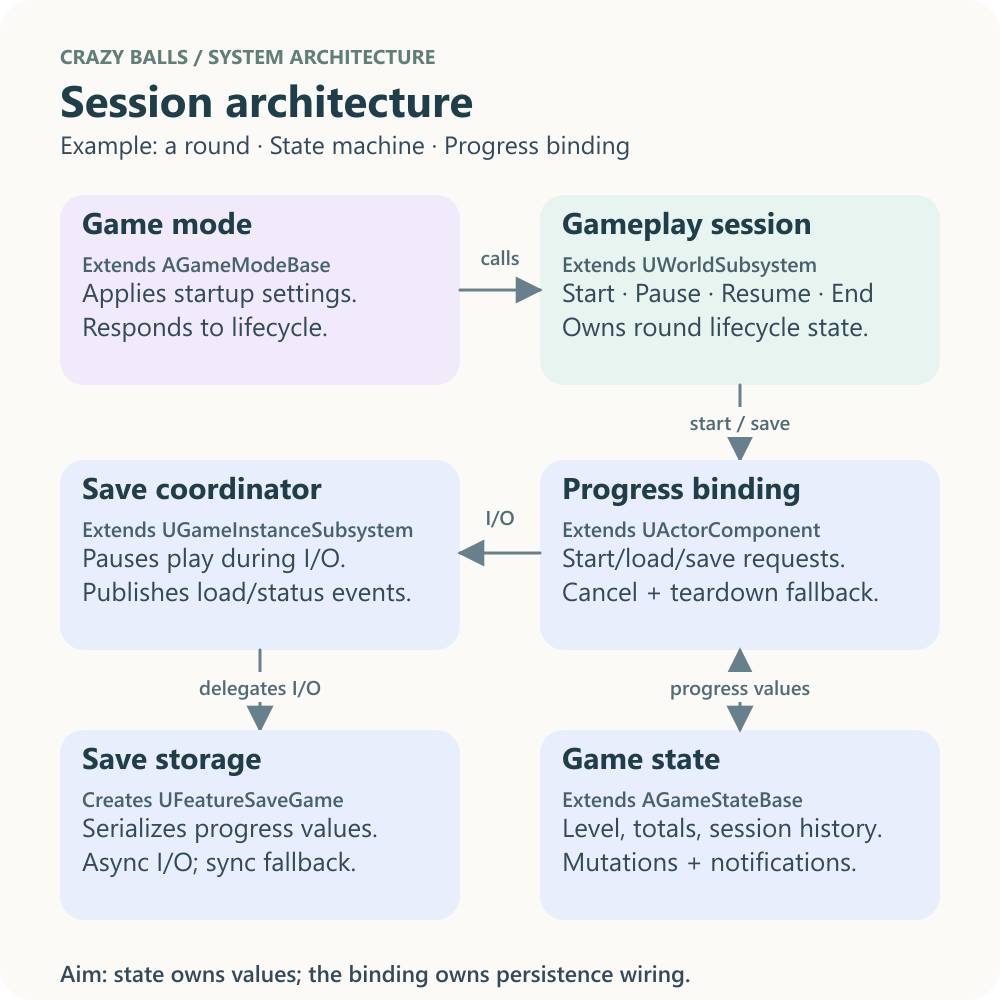
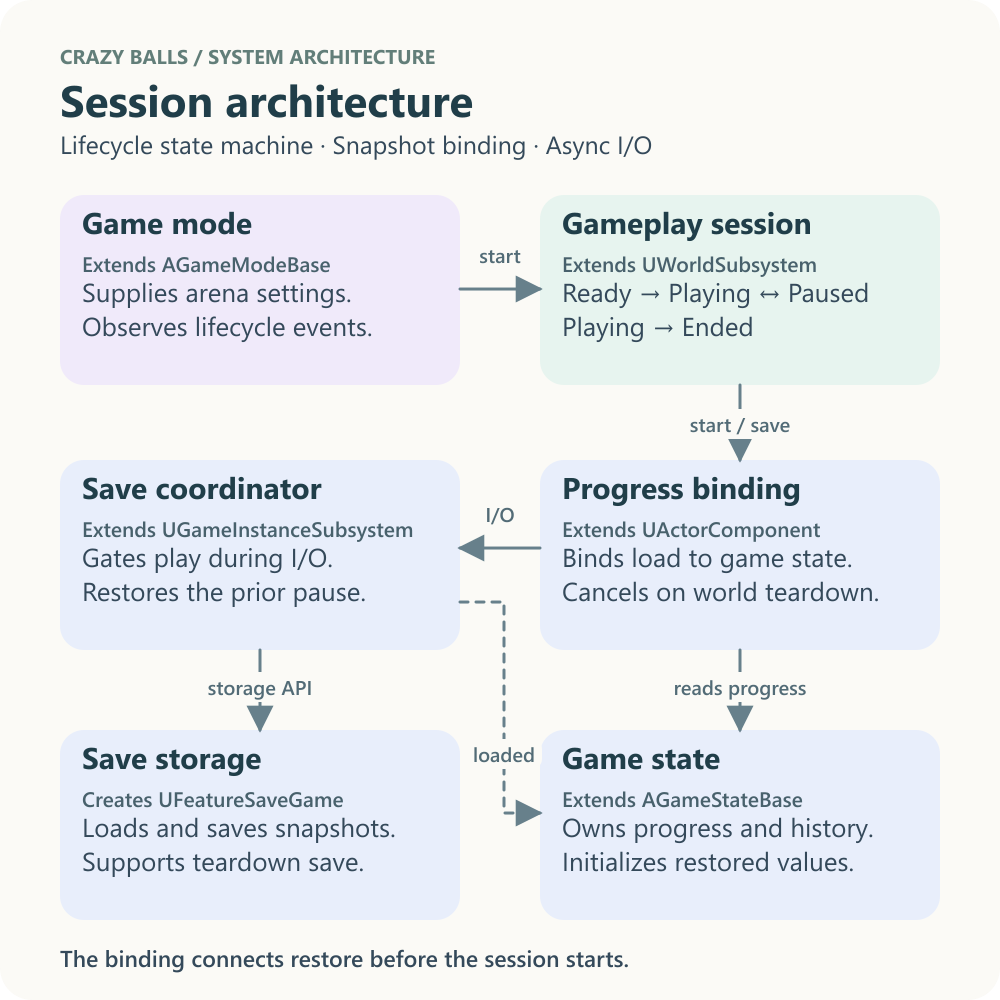
Refresh architecture diagrams and strengthen feature smoke checks

diff --git a/Source/TestFeatures/FeatureSmokeTests.cpp b/Source/TestFeatures/FeatureSmokeTests.cpp
@@ -3,6 +3,7 @@
 #include "Features/Gameplay/FeatureGameState.h"
 #include "Features/Gameplay/Actors/FeatureBall.h"
 #include "Features/Gameplay/FeatureBallManager.h"
+#include "Features/Gameplay/FeatureGameStateController.h"
 #include "Features/GameWorkflow/FeatureGameplaySession.h"
 #include "Features/GameWorkflow/FeatureSaveGame.h"
 #include "Features/UI/Views/FeatureMenuViews.h"
@@ -15,6 +16,7 @@
 #include "GameFramework/PlayerState.h"
 #include "Kismet/GameplayStatics.h"
 #include "Misc/AutomationTest.h"
+#include "Misc/DateTime.h"
 #include "TimerManager.h"
 
 // Initializes a fresh state fixture without involving persistence or a game instance.
@@ -52,7 +54,12 @@ bool FFeatureMenuSmokeTest::RunTest(const FString& Parameters)
 		&& Initial.Items[3].Action == EFeatureMenuAction::Exit);
 	TestTrue(TEXT("Escape exits from the initial menu"), Initial.bExitOnEscape && !Initial.bPauseMenu);
 	TestTrue(TEXT("Pause menu starts with Resume"), Pause.Items[0].Action == EFeatureMenuAction::Resume && Pause.bPauseMenu);
-	TestTrue(TEXT("Victory starts the saved next level"), Victory.Items[0].Action == EFeatureMenuAction::Retry);
+	TestTrue(TEXT("Pause offers return to menu and exit"), Pause.Items[1].Action == EFeatureMenuAction::ReturnToMenu
+		&& Pause.Items[2].Action == EFeatureMenuAction::Exit);
+	TestTrue(TEXT("Victory offers saved-level reload and exit"), Victory.Items[0].Action == EFeatureMenuAction::Retry
+		&& Victory.Items[1].Action == EFeatureMenuAction::Exit);
+	TestFalse(TEXT("Result screens do not use pause or startup Escape behavior"),
+		Victory.bPauseMenu || Victory.bExitOnEscape || Defeat.bPauseMenu || Defeat.bExitOnEscape);
 	TestTrue(TEXT("Defeat offers Retry and Exit"), Defeat.Items[0].Action == EFeatureMenuAction::Retry
 		&& Defeat.Items[1].Action == EFeatureMenuAction::Exit);
 	return true;
@@ -153,6 +160,11 @@ bool FFeaturePlayerBallReplacementSmokeTest::RunTest(const FString& Parameters)
 {
 	UWorld* World = UWorld::CreateWorld(EWorldType::Game, false);
 	UFeatureBallManager* Manager = World->GetSubsystem<UFeatureBallManager>();
+	AFeatureGameState* State = World->SpawnActor<AFeatureGameState>();
+	InitializeFreshSession(*State, 1);
+	UFeatureGameStateController* StateController = NewObject<UFeatureGameStateController>(State);
+	StateController->Initialize(*State);
+	Manager->OnBallCreated.AddUObject(StateController, &UFeatureGameStateController::ObserveBall);
 	Manager->Start(1, 1.0f, 1.0f, 5, FBox(FVector(-100.0f), FVector(100.0f)));
 	AFeatureBall* Ball = Manager->GetSpawnedBalls()[0].Get();
 	APawn* PlayerPawn = World->SpawnActor<APawn>();
@@ -168,6 +180,8 @@ bool FFeaturePlayerBallReplacementSmokeTest::RunTest(const FString& Parameters)
 
 	Ball->OnBallHit(nullptr, PlayerPawn, nullptr, FVector::ZeroVector, FHitResult());
 	TestTrue(TEXT("Player contact is published"), bPlayerContactAnnounced);
+	TestEqual(TEXT("The state bridge records the contact once"), State->GetGameplaySessions().Last().PlayerBallCollisions, 1);
+	TestEqual(TEXT("Player contact leaves the aggregate bounce count unchanged"), State->GetTotalBounces(), 0);
 	TestFalse(TEXT("The contacted ball is retired"), Ball->IsActive());
 	TestEqual(TEXT("Retirement schedules one replacement"), Manager->PendingBallReplacements, 1);
 	TestEqual(TEXT("A swept player contact does not count as a non-player bounce"), Ball->BounceCount, 0);
@@ -185,6 +199,7 @@ bool FFeaturePlayerBallReplacementSmokeTest::RunTest(const FString& Parameters)
 	TestTrue(TEXT("The ball remains active below its rebound limit"), Ball->IsActive());
 	Ball->OnBallHit(nullptr, nullptr, nullptr, FVector::UpVector, FHitResult());
 	TestEqual(TEXT("The rebound limit counts the last bounce"), Ball->BounceCount, 2);
+	TestEqual(TEXT("Pool reuse preserves a single scoring subscription"), State->GetTotalBounces(), 2);
 	TestFalse(TEXT("The scripted rebound limit retires the ball"), Ball->IsActive());
 	TestEqual(TEXT("Non-player retirement also schedules replacement"), Manager->PendingBallReplacements, 1);
 
@@ -194,9 +209,12 @@ bool FFeaturePlayerBallReplacementSmokeTest::RunTest(const FString& Parameters)
 	TestEqual(TEXT("Deferred replacement remains queued"), Manager->PendingBallReplacements, 1);
 	Manager->Resume();
 	TestTrue(TEXT("Active gameplay permits replacement again"), Ball->IsActive());
-	Manager->Stop();
 	Ball->Deactivate();
-	TestEqual(TEXT("Retirement after the session ends schedules no replacement"), Manager->PendingBallReplacements, 0);
+	TestEqual(TEXT("A retirement before stop queues a replacement"), Manager->PendingBallReplacements, 1);
+	Manager->Stop();
+	TestEqual(TEXT("Stopping discards the queued replacement"), Manager->PendingBallReplacements, 0);
+	Manager->SpawnReplacementBall();
+	TestFalse(TEXT("A stopped manager leaves the retired ball inactive"), Ball->IsActive());
 
 	World->DestroyWorld(false);
 	return true;
@@ -234,7 +252,12 @@ bool FFeatureSaveSmokeTest::RunTest(const FString& Parameters)
 	UFeatureSaveGame* Original = NewObject<UFeatureSaveGame>();
 	Original->Progress.CurrentLevel = 3;
 	Original->Progress.TotalBounces = 14;
+	FFeatureGameplaySessionRecord& Earlier = Original->Progress.Sessions.AddDefaulted_GetRef();
+	Earlier.StartedAtUtc = FDateTime(2026, 11, 8, 12);
+	Earlier.TotalBounces = 10;
+	Earlier.Result = EFeatureGameplaySessionResult::Victory;
 	FFeatureGameplaySessionRecord& Session = Original->Progress.Sessions.AddDefaulted_GetRef();
+	Session.StartedAtUtc = FDateTime(2026, 11, 8, 13);
 	Session.TotalBounces = 4;
 	Session.PlayerBallCollisions = 2;
 	Session.Result = EFeatureGameplaySessionResult::Defeat;
@@ -251,9 +274,13 @@ bool FFeatureSaveSmokeTest::RunTest(const FString& Parameters)
 	}
 	TestEqual(TEXT("Saved level survives"), Restored->Progress.CurrentLevel, 3);
 	TestEqual(TEXT("Aggregate bounces survive"), Restored->Progress.TotalBounces, 14);
-	if (TestEqual(TEXT("Session history survives"), Restored->Progress.Sessions.Num(), 1))
+	if (TestEqual(TEXT("Session history survives"), Restored->Progress.Sessions.Num(), 2))
 	{
-		const FFeatureGameplaySessionRecord& LoadedSession = Restored->Progress.Sessions[0];
+		const FFeatureGameplaySessionRecord& LoadedEarlier = Restored->Progress.Sessions[0];
+		const FFeatureGameplaySessionRecord& LoadedSession = Restored->Progress.Sessions[1];
+		TestEqual(TEXT("Session timestamps survive in chronological order"), LoadedEarlier.StartedAtUtc, FDateTime(2026, 11, 8, 12));
+		TestEqual(TEXT("Latest session timestamp survives"), LoadedSession.StartedAtUtc, FDateTime(2026, 11, 8, 13));
+		TestTrue(TEXT("Earlier session result survives"), LoadedEarlier.Result == EFeatureGameplaySessionResult::Victory);
 		TestEqual(TEXT("Session bounces survive"), LoadedSession.TotalBounces, 4);
 		TestEqual(TEXT("Player contacts survive"), LoadedSession.PlayerBallCollisions, 2);
 		TestTrue(TEXT("Session result survives"), LoadedSession.Result == EFeatureGameplaySessionResult::Defeat);

diff --git a/Source/test_UE_584_G1_c/FeatureGameplaySmokeTests.cpp b/Source/test_UE_584_G1_c/FeatureGameplaySmokeTests.cpp
@@ -33,6 +33,8 @@ bool FFeaturePlayerSpeedBoostSmokeTest::RunTest(const FString& Parameters)
 	Atest_UE_584_G1_cCharacter* StackingCharacter = World->SpawnActor<Atest_UE_584_G1_cCharacter>(CharacterClass);
 	UFeaturePlayerRules* StackingLogic = StackingCharacter->FindComponentByClass<UFeaturePlayerRules>();
 	StackingLogic->ConfigureSpeed(0.5f, 2.0f, 5.0f, true);
+	StackingLogic->HandleBallContact(*Character);
+	TestEqual(TEXT("Contact for another pawn leaves baseline speed unchanged"), StackingCharacter->GetCharacterMovement()->MaxWalkSpeed, 250.0f);
 	StackingLogic->HandleBallContact(*StackingCharacter);
 	StackingLogic->HandleBallContact(*StackingCharacter);
 	TestEqual(TEXT("Stacking adds one contact boost per contact"), StackingCharacter->GetCharacterMovement()->MaxWalkSpeed, 750.0f);

diff --git a/README.md b/README.md
@@ -75,13 +75,13 @@ Earlier milestones and their runtime captures are recorded in the [change histor
 
 The flows below are small, purpose-built examples for this prototype. Each uses a concrete game feature to explore architectural benefits: clear ownership, localized dependencies, shared construction, and a single source of truth for rules and state. The patterns guide those boundaries; each implementation stays focused on its current use case and can grow when another use case needs it.
 
-Each view highlights its own boundary: gameplay events, UI construction, session lifecycle, script iteration, or helper ownership. Repeated class names provide context; their detailed responsibilities stay in the relevant view. Solid arrows show calls or data flow; the dashed arrow shows state observation. Expand the class references for full names and base types. These are architecture illustrations, not runtime captures.
+Each view highlights its own boundary: gameplay events, UI construction, session lifecycle, script iteration, or helper ownership. Repeated class names provide context; their detailed responsibilities stay in the relevant view. Solid arrows show calls or value flow. Dashed arrows show event delivery. Expand the class references for full names and base types. These are architecture illustrations, not runtime captures.
 
 ### Gameplay architecture
 
 ![Square gameplay architecture diagram: session, arena, ball manager, ball, state bridge and shared state.](docs/images/feature-gameplay-flow.png)
 
-The ball cycle demonstrates Observer events and event-to-state translation. Balls report contacts and bounces; a focused bridge gives those events meaning as session statistics. The session observes the resulting score changes. This keeps physics behavior independent of shared state and UI. The [ball manager](Source/TestFeatures/Features/Gameplay/FeatureBallManager.h) owns the pool, reuses retired actors, and schedules replacements.
+The ball cycle demonstrates Observer events and event-to-state translation. Balls report contacts and bounces; a focused bridge gives those events meaning as session statistics. The session observes the resulting score changes. The ball manager announces each newly created actor so the scoring bridge can subscribe once before activation. The session controls when the manager starts, pauses, resumes, and stops. The manager owns reuse and queued replacements. [Ball manager](Source/TestFeatures/Features/Gameplay/FeatureBallManager.h)
 
 <details>
 <summary>Class reference</summary>
@@ -101,9 +101,9 @@ Source: [session](Source/TestFeatures/Features/GameWorkflow/FeatureGameplaySessi
 
 ### UI architecture
 
-![Square UI architecture diagram: declarative menu definitions, shared menu, gameplay HUD and composed debug panels.](docs/images/feature-ui-flow.png)
+![Square UI architecture diagram showing menu definitions, action routing, saved-progress composition, and HUD ownership.](docs/images/feature-ui-flow.png)
 
-The four menu views demonstrate declarative differences over shared construction: common layout and behavior have one implementation, and each view supplies its heading and actions. The menu controller owns menu lifetime and executes actions; GameMode supplies flow changes and configured session starts. The player controller manages HUD lifetime. Widgets own their Observer bindings, so display changes stay within UI code and controllers do not need to know which state events update which labels.
+The four menu views demonstrate declarative differences over shared construction: common layout and behavior have one implementation, and each view supplies its heading and actions. The world-scoped menu controller owns menu lifetime and routes actions. It publishes `OnStartRequested` for New Game and Continue. GameMode supplies the session settings and passes flow changes back to the controller. The player controller manages HUD lifetime. Widgets own their Observer bindings, so display changes stay within UI code and controllers do not need to know which state events update which labels.
 
 The [saved-progress panel](Source/TestFeatures/Features/UI/Widgets/FeatureSavedProgressPanel.cpp) owns asynchronous preview loading, summary formatting, and deletion observation. The menu composes it and updates Continue/Delete Save from its saved-level and slot-availability events, with an initial read when the binding is attached.
 
@@ -130,7 +130,7 @@ Source: [controller](Source/TestFeatures/Features/UI/Controllers/FeatureMenuCont
 
 ![Square session architecture diagram: the gameplay session requests operations through a progress-binding component; game state owns values, while the coordinator and storage handle I/O.](docs/images/feature-workflow-flow.png)
 
-A small enum-based state machine makes round transitions explicit. GameMode attaches a focused persistence component to the game state: the component connects restored snapshots, routes load/save requests, and owns cancellation and teardown saving. The state owns progress, mutations, and notifications without storage or save-subsystem dependencies. World and game-instance lifetimes remain separate, and the save subsystem publishes restored data and I/O status.
+The world-scoped session moves from Ready to Playing, can pause and resume, and ends when an outcome is recorded. GameMode attaches a progress component to game state. The component routes save and load requests to the game-instance coordinator and binds its `OnLoaded` event directly to state initialization. The coordinator restores the world’s previous pause state when I/O finishes. On teardown, the binding cancels outstanding callbacks and saves initialized progress synchronously when needed.
 
 <details>
 <summary>Class reference</summary>
@@ -178,9 +178,9 @@ Source: [AS rules](Source/TestFeatures/Features_GameLogic/FeatureLevelRules.as) 
 
 ### Non-UE helper architecture
 
-![Square non-UE helper architecture diagram: save coordination and menu previews share a focused storage helper.](docs/images/feature-nonue-flow.png)
+![Square non-UE helper architecture diagram showing shared save storage and the console command route to the menu controller.](docs/images/feature-nonue-flow.png)
 
-This view focuses on ownership and narrow helper APIs. The storage helper contains save-slot, serialization, and disk API details used by the save coordinator and saved-progress preview. It is a plain C++ class using Unreal types, with no UObject lifetime of its own. Event scoring belongs to the gameplay view, rendered composition to the UI view, and pause/result coordination to the session view.
+The save coordinator and menu preview share one storage API for the slot, serialization, and disk access. The console registrar uses the world supplied by Unreal to find that world’s menu controller. In non-Shipping builds, it dispatches `Feature.NewGame` through the same action path as the startup button. Both helpers are plain C++ classes that use Unreal APIs.
 
 <details>
 <summary>Class and ownership reference</summary>
@@ -189,15 +189,16 @@ This view focuses on ownership and narrow helper APIs. The storage helper contai
 | --- | --- | --- |
 | Save coordinator | `UFeatureSaveGameSubsystem` | Extends `UGameInstanceSubsystem`; coordinates persistence |
 | Saved-progress preview | `UFeatureSavedProgressPanel` | Extends `UUserWidget`; reads storage without mutating live state |
-| Save storage helper | `FFeatureSaveGameStorage` | Creates `UFeatureSaveGame` snapshots for the save coordinator; also serves menu previews |
+| Save storage helper | `FFeatureSaveGameStorage` | Creates `UFeatureSaveGame` objects and reads progress snapshots for both consumers |
+| Console registrar | `FFeatureConsoleCommands` | Registers `FAutoConsoleCommandWithWorld` and dispatches to `UFeatureMenuController` |
 
 </details>
 
-Source: [save storage](Source/TestFeatures/Features_NonUE/FeatureSaveGameStorage.cpp) · [player controller](Source/test_UE_584_G1_c/test_UE_584_G1_cPlayerController.cpp).
+Source: [save storage](Source/TestFeatures/Features_NonUE/FeatureSaveGameStorage.cpp) · [console commands](Source/TestFeatures/Features_NonUE/FeatureConsoleCommands.cpp).
 
 The `TestFeatures` runtime module houses gameplay, UI, and persistence. Unreal and Blueprint provide the framework and supplementary assets; AngelScript implements level, player, and ball rules through an embedded standalone runtime.
 
-Within `TestFeatures/Features`, `Gameplay` contains the ball manager, balls, bounds, and bounce state. `GameWorkflow` contains session and persistence code. `UI` contains menus and HUD panels. AngelScript rules and their C++ bridges live together in the sibling `Features_GameLogic` folder. The plain C++ storage helper and console command registrar live in `Features_NonUE`.
+Within `TestFeatures/Features`, `Gameplay` contains the ball manager and scoring state, with ball and bounds actors in `Gameplay/Actors`. `GameWorkflow` contains session and persistence code. `UI` contains menus and HUD panels. AngelScript rules and their C++ bridges live together in the sibling `Features_GameLogic` folder. The plain C++ storage helper and console command registrar live in `Features_NonUE`.
 
 
 ## Development

diff --git a/docs/DEVELOPMENT.md b/docs/DEVELOPMENT.md
@@ -19,15 +19,13 @@ This guide covers running and testing Crazy balls, changing its implementation, 
 
 ### Smoke checks
 
-After building the Development Editor target, run `./Run-FeatureSmoke.ps1` in PowerShell. It invokes Unreal's Gauntlet editor automation runner for seven `Feature.Smoke` checks: menu definitions, session state and progression, pool reuse, ball contact/retirement/replacement policy, scripted outcomes and limits, save serialization, and player-speed boosts including refresh, expiry, and stacking. Logs are stored under `Intermediate/FeatureSmoke`; the runner exports `Report/index.json` and `Report/index.html` there. Repeated runs replace the current artifacts. These headless checks do not replace a playthrough or exercise the rendered UI.
+After building the Development Editor target, run `./Run-FeatureSmoke.ps1` in PowerShell. Gauntlet runs seven `Feature.Smoke` checks covering menu definitions, session state and progression, outcome thresholds, pool reuse, ball contacts and scoring, save history, and player-speed boosts. Each run replaces the logs in `Intermediate/FeatureSmoke` and exports `Report/index.json` and `Report/index.html`. The headless suite exercises behavior in fixtures and does not render the UI.
 
 The six shared feature checks live at the `TestFeatures` module root. The player-speed check lives in the game module because it spawns the project character. [Shared feature checks](../Source/TestFeatures/FeatureSmokeTests.cpp) · [Player-speed check](../Source/test_UE_584_G1_c/FeatureGameplaySmokeTests.cpp)
 
-November 8, 2026: the Development Editor build succeeded and Gauntlet passed all seven checks with exit code 0 and no per-test warnings or errors. The [saved JSON report](validation/2026-11-08-gauntlet-report.json) records each result. Two fixture failures found in the initial run were corrected: the replacement fixture now supplies a non-bot player state and exercises the queued replacement timer; the speed fixture advances across engine frames and uses separate characters for independent boost configurations.
+On November 9, 2026, the Development Editor build and all seven Gauntlet checks passed. The run exited with code 0 and reported zero per-test warnings or errors. The updated fixtures cover scoring after reuse, discarding queued replacements at session end, chronological save history, and ignoring speed-boost events for another pawn. [November 9 report](validation/2026-11-09-gauntlet-report.json)
 
-That report predates the player, outcome, progression, and ball-rule extractions. Their updated checks compiled, and all three scripts passed compilation and binding-signature checks; Gauntlet has not been rerun against those changes. This documentation review adds no runtime validation or new captures.
-
-The editor still logs startup diagnostics before the checks, including 14 `LogAutomationTest: Error: Condition failed` messages in this passing run. These were not suppressed. The previous initialization failure was not reproduced when running outside the restricted execution environment; its cause remains unconfirmed. See the [tracked startup issue](../AGENTS.MD#bugs).
+The editor logged 14 `LogAutomationTest: Error: Condition failed` messages before the first smoke check. The earlier engine initialization failure did not recur. The November 8 report preserves the baseline before the rule and ownership refactors. [Tracked startup issue](../AGENTS.MD#bugs) · [November 8 report](validation/2026-11-08-gauntlet-report.json)
 
 ### Package for Win64
 

diff --git a/Source/TestFeatures/Features/README.FEATURES.md b/Source/TestFeatures/Features/README.FEATURES.md
@@ -18,7 +18,7 @@ Start with the startup flow below. The later sections explain the event connecti
 | `GameWorkflow` | Gameplay session, flow enum, save data, and persistence subsystem |
 | `UI` | Menu and HUD archetypes, action definitions grouped by purpose in `UI/Controllers`, declarative menu views, and panel widgets |
 
-The sibling [game-logic folder](../Features_GameLogic/README.GAMELOGIC.md) contains level, player, and ball rules and their focused C++ bridges. AngelScript owns limits, outcomes, progression, speed calculations, and ball-lifetime decisions; native code applies the results. The sibling `Features_NonUE` folder contains plain C++ helpers for spawning and storage. These helpers still use Unreal APIs. They do not derive from UObject.
+The sibling [game-logic folder](../Features_GameLogic/README.GAMELOGIC.md) contains level, player, and ball rules and their focused C++ bridges. AngelScript owns limits, outcomes, progression, speed calculations, and ball-lifetime decisions; native code applies the results. The sibling `Features_NonUE` folder contains plain C++ helpers for console registration and storage. These helpers still use Unreal APIs. They do not derive from UObject.
 
 ![Standalone gameplay after moving feature classes into responsibility folders](../../../docs/images/feature-organized-gameplay.png)
 
@@ -131,9 +131,9 @@ AFeatureBall* Ball = GetWorld()->SpawnActor<AFeatureBall>(Location, FRotator::Ze
 
 Unreal constructs the actor and its inherited mesh component. The ball constructor caches that component once, loads the built-in sphere, prepares physics, and creates its bouncy material. The ball applies the material in `BeginPlay()`, when physics can update the mesh. Initially, the ball is hidden and inactive.
 
-The manager assigns `Training_Ball_0`, then `Training_Ball_1`, and so on, using the pool list index. It sets both the internal object name and the editor's Outliner label. It adds the actor to `SpawnedBalls` and broadcasts `OnBallCreated` before activation.
+The manager assigns `Training_Ball_0`, then `Training_Ball_1`, and so on, using the pool list index. It sets the internal object name in every build and the Outliner label in editor builds. It adds the actor to `SpawnedBalls` and broadcasts `OnBallCreated` before activation.
 
-The controller's `ObserveBall()` subscribes to that actor's bounce event. Reusing the actor skips `CreateBall()`, so it also skips this subscription step. Each actor retains its original name, list slot, and listener connection.
+The state controller’s `ObserveBall()` subscribes to the actor’s bounce and contact events. Reusing the actor skips `CreateBall()`, so it also skips this subscription step. Each actor retains its original name, list slot, and listener connection.
 
 ## 3. Activation: make the ball move
 

diff --git a/Source/TestFeatures/Features_GameLogic/README.GAMELOGIC.md b/Source/TestFeatures/Features_GameLogic/README.GAMELOGIC.md
@@ -7,7 +7,7 @@ This folder contains the game's rule calculations and the C++ code that connects
 - Level limits, session outcomes, and level progression have one implementation in [FeatureLevelRules.as](FeatureLevelRules.as); player speed and bonus transitions live in [FeaturePlayerRules.as](FeaturePlayerRules.as). [FeatureBallRules.as](FeatureBallRules.as) owns bounce classification, retirement, and replacement eligibility.
 - The [level host](FeatureLevelRules.cpp), `UFeatureLevelRules`, extends `UWorldSubsystem` and passes integer inputs and the registered session-result enum across the boundary.
 - The [player bridge](FeaturePlayerRules.cpp), `UFeaturePlayerRules`, extends `UActorComponent`. It observes player contacts from the ball manager and owns native movement updates, the expiry timer, and transient bonus state. GameMode supplies its configuration; the character only creates the component alongside its movement and cameras.
-- The [ball bridge](FeatureBallRules.cpp), `UFeatureBallRules`, extends `UWorldSubsystem`. It translates native collision facts into values and returns scripted action flags. The ball applies count/retirement effects; the [ball manager](../Features/Gameplay/FeatureBallManager.h) operates the replacement queue and pool.
+- The [ball bridge](FeatureBallRules.cpp), `UFeatureBallRules`, extends `UWorldSubsystem`. It translates native collision facts into values and returns scripted action flags. The ball applies counting and retirement effects. The manager calls the same bridge for replacement eligibility and owns the native queue and pool. [Ball manager](../Features/Gameplay/FeatureBallManager.h)
 - All three bridges use [FFeatureScriptRuntime](FeatureScriptRuntime.cpp) for compilation, function lookup, execution, and native resource ownership. Level and ball rules each load once per world; player rules load when each spawned character is configured. Each bridge owns an independent runtime and reusable context, with no per-frame script polling.
 - Game-mode configuration and saved progress remain owned by C++. The script receives values rather than retaining a second copy of game state.
 - The [gameplay session](../Features/GameWorkflow/FeatureGameplaySession.cpp) uses the returned limits for both outcome checks and the gameplay HUD.

diff --git a/AGENTS.MD b/AGENTS.MD
@@ -144,4 +144,4 @@ Done entries record completed milestones at the time they were implemented. Pres
 
 ### To do
 
-1. Investigate editor startup diagnostics in Gauntlet. Earlier runs logged repeated `LogAutomationTest: Error: Condition failed` messages, and a November 8 attempt exited with `Engine initialization failed (InitializationFailure, ExitCode=-1)` before creating the editor log. A later November 8 run outside the restricted execution environment completed all seven `Feature.Smoke` checks successfully after correcting the player-state and timer fixtures, with Gauntlet exit code 0. It still logged 14 `Condition failed` messages before the checks. The original initialization failure was not reproduced, and its cause remains unconfirmed; the suite is no longer blocked. See [the recorded results](docs/DEVELOPMENT.md#smoke-checks).
+1. Investigate editor startup diagnostics in Gauntlet. Earlier runs logged repeated `LogAutomationTest: Error: Condition failed` messages, and a November 8 attempt exited with `Engine initialization failed (InitializationFailure, ExitCode=-1)` before creating the editor log. A later November 8 run outside the restricted execution environment completed all seven `Feature.Smoke` checks successfully after correcting the player-state and timer fixtures, with Gauntlet exit code 0. It still logged 14 `Condition failed` messages before the checks. The November 9 run also passed all seven checks with exit code 0 and reproduced the 14 startup messages. The earlier initialization failure did not recur, and its cause remains unconfirmed. See [the recorded results](docs/DEVELOPMENT.md#smoke-checks).

diff --git a/docs/PERFORMANCE_IDEAS.md b/docs/PERFORMANCE_IDEAS.md
@@ -67,4 +67,4 @@ Both objective lines are formatted on every stats update even when only one coun
 
 For a future authorized profiling session, compare the same Win64 build, map, resolution, and logging settings. Record frame-time distributions plus game-thread, physics, Slate, and GPU contributions. Vary ball count, contact density, diagnostic operations, and saved-session count separately; include startup, steady play, replacement bursts, and save/teardown.
 
-No performance gains are claimed by this review. The November 8 Gauntlet follow-up passed all seven smoke checks after test-fixture corrections; that validates selected behaviors, not performance. Editor startup diagnostics remain tracked separately. See the [smoke-check results](DEVELOPMENT.md#smoke-checks) and [tracked bug](../AGENTS.MD#bugs).
+No performance gains are claimed by this review. The November 9 Gauntlet run passed all seven smoke checks. Performance measurements remain a separate task. Editor startup diagnostics remain tracked separately. See the [smoke-check results](DEVELOPMENT.md#smoke-checks) and [tracked bug](../AGENTS.MD#bugs).
